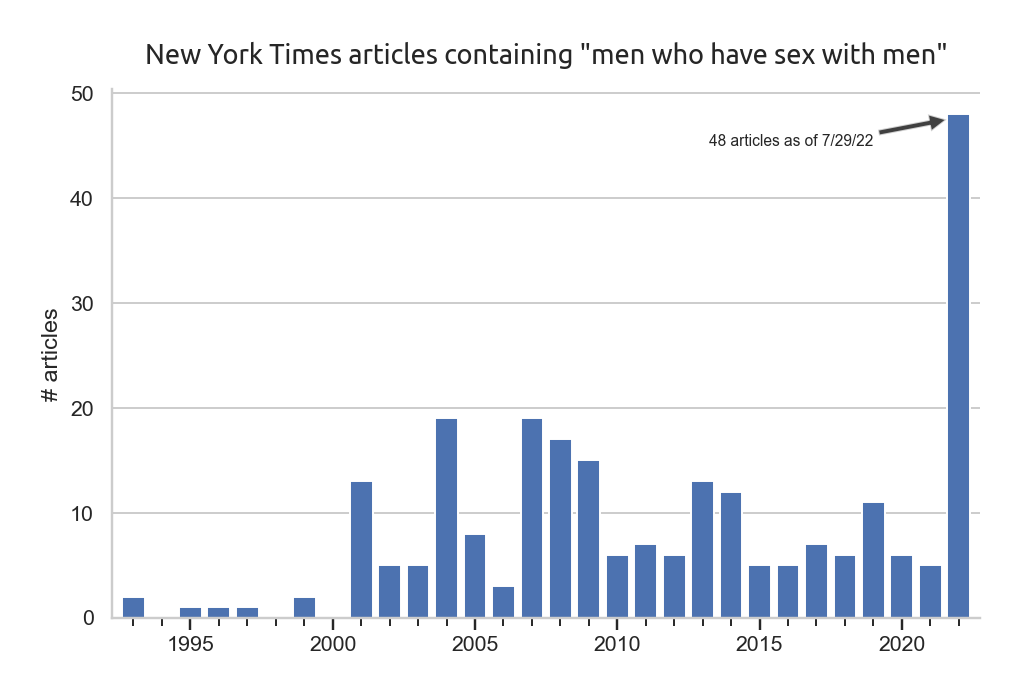
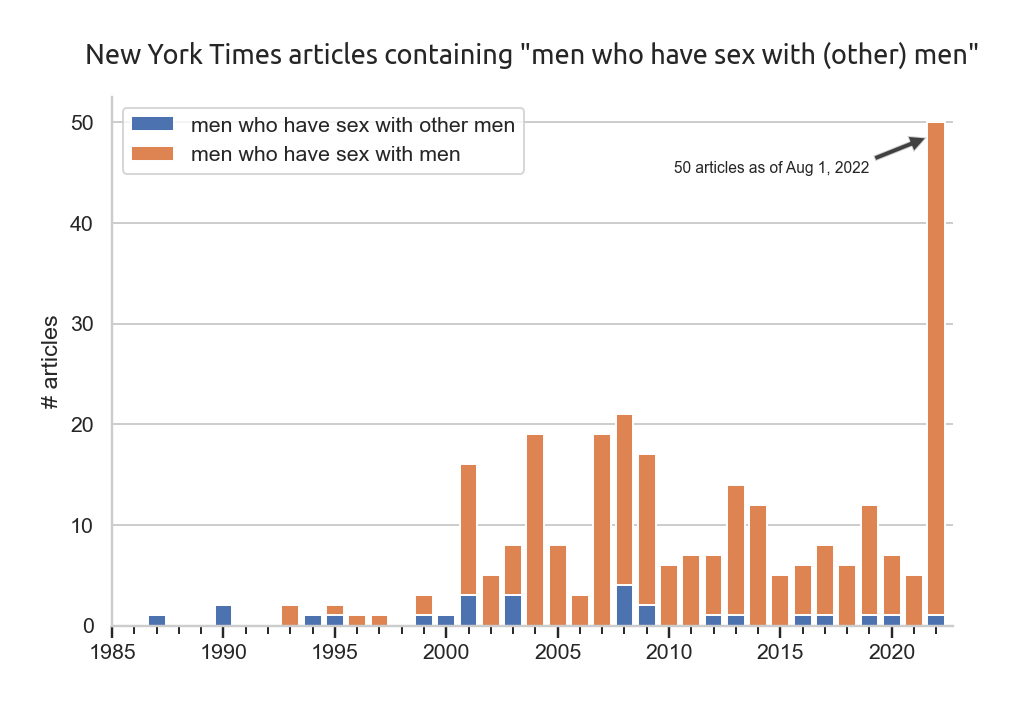
Final draft of MSM post

diff --git a/_posts/2022-07-29-msm-antedating.md b/_posts/2022-07-29-msm-antedating.md
@@ -4,54 +4,110 @@ title: A brief history of "men who have sex with men"
 tags: [linguistics]
 ---
 
-<!--
-
-Todo:
-- thumbnail img
-- hot take tweet img
-- test ngrams on mobile
-- grab images from survey to include w/ tweet
-
-Maybe:
-- tighten up middle-ish. maybe cut foucault.
-- mention early on what the term means / why it's useful
-
--->
-
 With monkeypox in the news, some people are encountering the phrase "men who have sex with men" ("MSM" for short) for the first time. I've even seen some hot takes positing that it's a new invention being pushed by woke moralists.
 
-![Screenshots of some tweets describing "men who have sex with men" as a new or unfamiliar phrase](/assets/msm/tweets.png)
+<div>
+    <img src="/assets/msm/tweets.png" height="600px"
+     style="display:block; margin: 1em auto;"
+     alt="Screenshots of some tweets describing 'men who have sex with men' as a new or unfamiliar phrase"
+     />
+</div>
 
-First off, there's nothing sinister or euphemistic about this plain English phrase which means more or less what it says on the tin. Why not just say "gay" (or "gay or bisexual")? Because the Venn diagram of these sets has non-empty "lobes" -- there exist celibate gay men, and, most importantly, there exist men who have sex with men but who do not identify as gay or bisexual. The potential reasons for this are many, but consider for example a man who...
+First off, it seems odd to read this plain English phrase which means more or less what it says on the tin as something sinister or euphemistic. Why not just say "gay" (or "gay or bisexual")? Because the Venn diagram of these sets has non-empty "lobes" -- there exist celibate gay men, and, most importantly, there exist men who have sex with men but who do not identify as gay or bisexual. The potential reasons for this are many, but consider for example a man who...
 - Is attracted to men, but denies this attraction out of shame
 - Acknowledges his attraction to men, but eschews the label "gay" because he does not identify with the cultural stereotypes of this category (the British physique photographer [John S. Barrington](https://en.wikipedia.org/wiki/John_S._Barrington) is a good example of this)
 - Engages in homosexual acts when confined to an all-male environment (such as a boarding school or prison), but would not do so otherwise (["situational sexual behavior"](https://en.wikipedia.org/wiki/Situational_sexual_behavior))
 
 When it comes to messaging about diseases like monkeypox or AIDS, a person's risk profile is more a function of their *behaviour* than their orientation or tribal identification.
 
-Secondly, it is *definitely* not a new term or concept. Many of the replies to the above tweets correctly point out that "men who have sex with men" has been in use for a long time, though the commentariat is vague or inconsistent about exactly how long ("a few years at least", "decades old", "since at least the 90s", since "around 1994", "it dates to the 1980's"...).
+Secondly, "men who have sex with men" is *definitely* not a new term or concept. Many of the replies to the above tweets correctly point out that "men who have sex with men" has been in use for a long time, though the commentariat is vague or inconsistent about exactly how long ("a few years at least", "decades old", "since at least the 90s", since "around 1994", "it dates to the 1980's"...).
 
-This post is the result of a weekend spent on a mission to pinpoint an answer to this question.
+This post is the result of a weekend spent on a mission to more precisely pinpoint the origin and spread of this concept.
+
+## Prior work
 
 [Wikipedia](https://en.wikipedia.org/wiki/Men_who_have_sex_with_men) claims that *men who have sex with men* has been in use "since 1990 or earlier", and that the initialism *MSM* was coined in 1994 by dentist [Michael Glick](https://en.wikipedia.org/wiki/Michael_Glick), in an article about periodontal issues afflicting HIV patients. These dates are cited to a 2005 article from the American Journal of Public Health, ["The Trouble With “MSM” and “WSW”: Erasure of the Sexual-Minority Person in Public Health Discourse"](https://www.ncbi.nlm.nih.gov/pmc/articles/PMC1449332/). 
 
-Another source, the 2011 paper ["But Do Not Identify As Gay: A Proleptic Genealogy of the MSM Category"](https://anthrosource.onlinelibrary.wiley.com/doi/10.1111/j.1548-1360.2011.01100.x) gives two 1988 quotations as the first published references to the concept ("to my knowledge"), an antedating which has since been repeated elsewhere (e.g. [here](https://www.sciencedirect.com/science/article/abs/pii/S0277953620301660), and [here](https://www.cbrc.net/rose-any-other-name)). But neither paper devotes much attention to the matter of antedating, so it seems plausible that we can push these dates back with a little digging.
+Another source, a 2011 paper by Tom Boellstorff, ["But Do Not Identify As Gay: A Proleptic Genealogy of the MSM Category"](https://anthrosource.onlinelibrary.wiley.com/doi/10.1111/j.1548-1360.2011.01100.x), gives two 1988 quotations as the first published references to the concept ("to my knowledge"), an antedating which has since been repeated in a number of places (e.g. [here](https://www.sciencedirect.com/science/article/abs/pii/S0277953620301660), and [here](https://www.cbrc.net/rose-any-other-name)).
 
-## When was "men who have sex with men" coined?
+<!-- But neither paper devotes much attention to the matter of antedating, so it seems plausible that we can push these dates back with a little digging. -->
+
+The Oxford English Dictionary has an entry for "men who have sex with men", with its earliest quotation also from 1988. Though, whereas the quotes given by Boellstorff are from academic papers, the OED's 1988 quote is from a newspaper, the [*New York Amsterdam News*](https://en.wikipedia.org/wiki/New_York_Amsterdam_News):
+
+> The NYC Department of Health is requesting..applicants..who have the ability to communicate with the following populations: **men who have sex with men** [etc.]
+
+The OED also has an entry for "MSM", with two citations that predate the supposed 1994 coinage claimed by the paper cited by Wikipedia. The earliest is from 1990: 
+
+> The Gay Men's Health Crisis (GMHC) convened focus groups with black men who have sex with men (**MSM**).
+
+## *men who have sex with men* before 1988?
 
 Google Books turns up many instances of the 6-gram "men who have sex with men" well before 1988. Here's an example from March 3, 1978, from Jim Fitzgerald, a columnist for the Detroit Free Press ([available through the Internet Archive library](https://archive.org/details/ifitfitzbestofji0000fitz/page/95/mode/1up)):
 
-> Anita Bryant recently said if government protects the civil rights of men who have sex with men, and women who have sex with women, it should do the same for "people who have sex with dead people and St. Bernards."
+> Anita Bryant recently said if government protects the civil rights of **men who have sex with men**, and women who have sex with women, it should do the same for "people who have sex with dead people and St. Bernards."
 
-But we're not interested in the first time these 6 words were put together with a meaning that's the sum of their parts. We want to know the origin of "men who have sex with men" as an *idiomatic* expression. i.e. as a term in medicine and social sciences, explicitly intended to be inclusive of men who (for any of a variety of reasons) practice same-sex intercourse without identifying as same-sex attracted. In the above excerpt, Fitzgerald is clearly not using the term in this way (in fact, the full Anita Bryant quote he references explicitly mentions homosexuality: "Making homosexuality a civil rights issue would mean you have to give minority-group status to prostitutes, to people who have sex with dead people or St. Bernards.")
+But we're not just interested in when these 6 words were put together in a particular order. We're interested in when it was first used with a certain meaning -- as a category that deliberately includes men who engage in homosexual behaviour but don't identify as homosexual, bisexual, etc. In the quote above, Fitzgerald seems to be using the phrase merely as a synonym for "gay men" (perhaps to create a natural rhetorical parallel with "people who have sex with dead people and St. Bernards") -- in fact, the full Anita Bryant quote he references is: "Making homosexuality a civil rights issue would mean you have to give minority-group status to prostitutes, to people who have sex with dead people or St. Bernards."
 
-Notably, the term appears in the 1986 English translation of the third volume of Foucault's landmark [*The History of Sexuality*](https://en.wikipedia.org/wiki/The_History_of_Sexuality) ("les hommes qui ont rapport avec des hommes", in the original French), but only once, so Foucault was probably not intending it as a term of art.
+The earliest uses of the phrase in the modern public health sense that I was able to find on Google Books were in a couple US government documents from 1987, a year before our earliest known citations. Here's one example:
 
-The earliest instance of the MSM framing I was able to find comes from a 1984-1985 longitudinal survey commissioned by the San Francisco AIDS Foundation. To be qualified for the survey, "a respondent had to report that he at least occasionally had sex with other men *or* to identify himself as gay or bisexual." Here's an excerpt from the script used by the interviewers, who reached out to a random sample of households over the phone:
+*Evaluation of California's AIDS Community Education Program*, a government publication from 1987 ([Google Books preview](https://www.google.ca/books/edition/Evaluation_of_California_s_AIDS_Communit/Q2iupm_22-UC?hl=en&gbpv=1&bsq=%22men+who+have+sex+with+men%22&dq=%22men+who+have+sex+with+men%22&printsec=frontcover)):
 
-> For the rest of this survey, we are interested in speaking with one group of people who are at highest risk for AIDS: men who have sex with other men, or who identify themselves as gay or bisexual. Would you include yourself in one of these groups?
+> **Men who have sex with men** but are not gay-identified had the lowest levels of AIDS-related knowledge and were the least likely to modify the behaviors. These men, who typically relate to the exclusively sexual subculture, may keep their homosexual contacts hidden from other parts of their lives.
+
+However, newspapers.com turns up a handful of earlier occurrences stretching all the way back to an article from January 1983(!) in the *Springfield News-Sun*, early in the AIDS crisis (the article describes AIDS as "a mysterious lethal disease that attacks the body's own immune system").
+
+<!--
+https://www.newspapers.com/image/825844327/?terms=%22men%20who%20have%20sex%20with%20men%22&match=1
+-->
+
+The article, "Blood centers screen area donors", deals very directly with the problems motivating the MSM/gay distinction. It reports on some local blood centers which have begun "asking donors whether or not they are homosexuals before taking their blood" as a precaution, given the existence of some evidence linking AIDS to gay men. The article's author interviewed a gay activist, Howard Getz, who objected to the formulation of the screening question:
+
+> Getz called the question inaccurate because AIDS had not been diagnosed among any lesbians. Also, **men who have sex with men** but do not consider themselves homosexual would be permitted to give blood and could taint the supply as easily as an admitted homosexual, he said.
+
+([Not "admitted homosexual".](https://colinmorris.github.io/blog/ironic-not))
+
+Getz's position would soon be vindicated. In 1985 we see an AP story, "Men who have had sex with men urged not to give blood", and a 1987 article in the LA Daily News quotes "Are you aware that men who have sex with other men run a high risk of contracting acquired immune deficiency syndrome?" as one of the standard questions nurses are asking prospective blood donors.
+
+<!--
+https://www.newspapers.com/image/248668324/?terms=%22men%20who%20have%20sex%20with%20men%22&match=1
+https://www.newspapers.com/image/517665518/?terms=%22men%20who%20have%20sex%20with%20men%22&match=1
+-->
+
+Some other early examples from newspapers...
+
+From a 1984 letter to the editor in *The Sydney Morning Herald*:
+
+> It is now recognised that a highly significant danger in spreading AIDS outside the gay community is through heterosexually identified **men who have sex with men** as well, sometimes in parks/toilets, often in steam-baths.
+
+<!--
+https://www.newspapers.com/image/122618571/?terms=%22men%20who%20have%20sex%20with%20men%22&match=1
+-->
+
+"Health officials ignore AIDS threat in prisons", a 1985 article in *The San Bernardino County Sun*:
+
+> There's little question that jails and prisons are potential breeding grounds for AIDS. A large number of the 700,000 Americans behind bars are drug users and **men who have sex with other men**.
+> [...]
+> "Sexual activity inside prisons is the by-product of a number of factors that bear no relationship to inmates' sexual orientation prior to arrest," New York City Police Commissioner Benjamin Ward wrote the New York Times recently.
+
+<!--
+https://www.newspapers.com/image/120324363/?terms=%22men%20who%20have%20sex%20with%20men%22&match=1
+-->
+
+## The 1984-85 San Francisco AIDS survey
+
+In the early years of the AIDS epidemic, the [San Francisco AIDS Foundation](https://en.wikipedia.org/wiki/San_Francisco_AIDS_Foundation) commissioned a telephone survey, with a first wave of interviews in August 1984, and follow-ups in April 1985. The foundation sought information about men's sexual practices, their awareness of AIDS, and their consumption and acceptance of public health messaging about AIDS prevention. Though a year later than the earliest quote in the above section, this is a great early example of the MSM paradigm being successfully used to a practical end. 
+
+[Headlines about the study](https://www.cdc.gov/mmwr/preview/mmwrhtml/00000620.htm) characterized it as a survey of "gay and bisexual men", but [the full report](https://calisphere.org/item/883f5e69-f4e4-4e0e-ad49-1e06a313f55a/)'s methodology section is more nuanced:
+
+> To be qualified, a respondent had to report that he at least occasionally had sex with other men, <u>or</u> to identify himself as gay or bisexual.
+
+Here's an excerpt from the script used by the interviewers, who phoned up a random sample of SF households:
+
+> For the rest of this survey, we are interested in speaking with one group of people who are at highest risk for AIDS: **men who have sex with other men**, or who identify themselves as gay or bisexual. Would you include yourself in one of these groups?
 > 
 > (IF HESITANT, CONTINUE:) We are also interested in speaking with men who may only occasionally have sex with other men. If you fall into one of these categories, we would very much appreciate it if you could complete the survey. As I said in the beginning, in no way will your name ever be associated with this survey and your answers will help the AIDS Foundation in their prevention campaign.
+
+In the 1984 survey, 81% of respondents described themselves as gay, 6% as bisexual, and 13% as "other" -- which is to say, enlarging their criteria to "men who have sex with other men" had a very real benefit in this case.
 
 Incidentally, the [whole report](https://calisphere.org/item/883f5e69-f4e4-4e0e-ad49-1e06a313f55a/) is a fascinating read, peppered with surprising and occasionally moving details. For example:
 
@@ -61,39 +117,29 @@ Of the 19 men who conducted the first survey, all but one were gay or bisexual, 
 
 > We also devised a system to keep track of respondents who initially refused to indicate whether they were qualified or not but whom the interviewer sensed probably were qualified. As the survey period progressed, we approached these refusals again with successful results. We completed interviews with 25 of the 62 refusals contacted, or 40%.
 
-In the 1984 survey, 81% of respondents described themselves as gay, 6% as bisexual, and 13% as "other" - which is to say, enlarging their criteria to "men who have sex with other men" had a practical benefit in this case.
+## Meta commentary
 
-The results of the report, including the "men who have sex with other men" framing, were also published elsewhere, such as [a 1985 issue of the CDC's *Morbidity and Mortality Weekly Report*](https://www.cdc.gov/mmwr/preview/mmwrhtml/00000620.htm).
-
-The earliest occurrences of the simpler "men who have sex with men" formulation I could find date to 1987. Some examples follow.
-
-*Evaluation of California's AIDS Community Education Program*, a government publication from 1987 ([Google Books preview](https://www.google.ca/books/edition/Evaluation_of_California_s_AIDS_Communit/Q2iupm_22-UC?hl=en&gbpv=1&bsq=%22men+who+have+sex+with+men%22&dq=%22men+who+have+sex+with+men%22&printsec=frontcover)):
-
-> Men who have sex with men but are not gay-identified had the lowest levels of AIDS-related knowledge and were the least likely to modify the behaviors. These men, who typically relate to the exclusively sexual subculture, may keep their homosexual contacts hidden from other parts of their lives.
-
-Another 1987 government report, this by the Department of Social & Health Services of Washington State ([preview](https://www.google.ca/books/edition/Report/naYeAQAAIAAJ?hl=en&gbpv=1&bsq=%22men+who+have+sex+with+men%22&dq=%22men+who+have+sex+with+men%22&printsec=frontcover))
-
-> At risk populations are often difficult to reach even through targeted efforts. Not all men who have sex with men identify with gay culture nor frequent gay institutions. The stigma associated with homosexuality causes men who have sex with men to deny to themselves that they are gay or bisexual.
-
-And here are a few examples from 1988 which give some explicit commentary on the term...
+The first instances I was able to find which commented directly on the phrase "men who have sex with men" itself were from 1988, and it's worth quoting a couple of them...
 
 From [some 1988 US Senate hearings related to AIDS](https://www.google.ca/books/edition/Coordinating_the_Government_s_Response_t/vvCJTFNDmT0C?hl=en&gbpv=1&dq=%22men+who+have+sex+with+men%22&pg=PA381&printsec=frontcover):
 
-> Our [The Latino Aids Project's] target groups are men who have sex with men, Latino(a) intravenous drug users, and Latino(a) youth who are at risk for HIV infection[...] The reason I have used the term "men who have sex with men" is because in our community we have men who participate in sexual activities with other men, however, they don't identify as being gay, homosexual or bisexual.
+> Our [The Latino Aids Project's] target groups are **men who have sex with men**, Latino(a) intravenous drug users, and Latino(a) youth who are at risk for HIV infection[...] The reason I have used the term **"men who have sex with men"** is because in our community we have men who participate in sexual activities with other men, however, they don't identify as being gay, homosexual or bisexual.
 
-This excerpt from a 1988 research article, ["Integrating Safer-Sex Counseling into Social Work Practice"](https://journals.sagepub.com/doi/abs/10.1177/104438948806900602), by Michael Shernoff powerfully drives home the practical value of this framing:
+This anecdote from a 1988 research article, ["Integrating Safer-Sex Counseling into Social Work Practice"](https://journals.sagepub.com/doi/abs/10.1177/104438948806900602), by Michael Shernoff powerfully drives home the practical value of this framing:
 
 > In attempting to assess whether a client is at risk for AIDS, clinical social workers must ascertain both what the client’s current sexual practices are as well as what they were in the past. Simply asking ”Are you gay?” is not sufficient. Health care professionals cannot assume that a client who is not openly gay has not engaged in sex with other men. For example, a married man with numerous symptoms of AIDS-related complex (ARC) who had never been transfused, who reported no history of shared needle use or other risk factors for exposure to HIV, and who stated he was not gay baffled his physician. However, when the man was questioned by a social worker as to whether he had ever had sex with other men, the client stated that he had a long history of sexual activity with men.
 > 
-> Thus many men who have sex with men do not label themselves as homosexual and certainly do not identify with the gay community. Questions regarding sexual practices must be asked in an accepting, nonjudgmental, and gentle way that does not incorporate the use of labels. For instance, the practitioner may ask: ”As an adult have you ever had any sexual contact with another man?” If the answer is ”Yes,” then asking ”When was the last time?” can provide useful and pertinent information about the client’s possible exposure to HIV.
+> Thus many **men who have sex with men** do not label themselves as homosexual and certainly do not identify with the gay community. Questions regarding sexual practices must be asked in an accepting, nonjudgmental, and gentle way that does not incorporate the use of labels. For instance, the practitioner may ask: ”As an adult have you ever had any sexual contact with another man?” If the answer is ”Yes,” then asking ”When was the last time?” can provide useful and pertinent information about the client’s possible exposure to HIV.
 
-### What about *MSM*?
+## *MSM* initialism before 1990?
 
-The source cited by Wikipedia claims that the initialism "MSM" wasn't coined until 1994, but this too can be pushed back. There are several pre-1994 examples of "MSM" at least being used as an abbreviation in tables or plots ([example](https://www.ncbi.nlm.nih.gov/pmc/articles/PMC1403325/?page=4)), and I was able to find one early document, [a 1989 Senate report](https://www.google.ca/books/edition/The_American_Health_Care_Crisis/lSMjFtDuXkwC?hl=en&gbpv=1&dq=%22men+who+have+sex+with%22+%22MSM%22&pg=PA39&printsec=frontcover), which uses it in running text:
+OED's earliest quotation for the initialism "MSM" is from 1990 (handily beating the article cited by Wikipedia which claims a 1994 coinage). But it turns out we can also push that figure back slightly:
 
-> AIDS incidence is growing more quickly among intravenous drug users (IVDUs) than it is among men who have sex with men (MSM):
-> - In 1988, for the first time, more *new* AIDS cases were reported among IVDUs than among MSM (43.4% vs. 43.2%).
-> - From June to December of 1988 MSM fell from 57.9% to 51.4% of [...]
+Here's an excerpt from [a 1989 Senate report](https://www.google.ca/books/edition/The_American_Health_Care_Crisis/lSMjFtDuXkwC?hl=en&gbpv=1&dq=%22men+who+have+sex+with%22+%22MSM%22&pg=PA39&printsec=frontcover):
+
+> AIDS incidence is growing more quickly among intravenous drug users (IVDUs) than it is among **men who have sex with men (MSM)**:
+> - In 1988, for the first time, more *new* AIDS cases were reported among IVDUs than among **MSM** (43.4% vs. 43.2%).
+> - From June to December of 1988 **MSM** fell from 57.9% to 51.4% of [...]
 
 ## Trends in usage
 
@@ -102,7 +148,7 @@ As I wrote in my [earlier post about the history of "pro-life" and "pro-choice"]
 <iframe name="ngram_chart" src="https://books.google.com/ngrams/interactive_chart?content=who+have+sex+with+men%2Cmen+who+have+sex+with%2Camong+MSM&year_start=1981&year_end=2019&case_insensitive=on&corpus=26&smoothing=0&direct_url=t4%3B%2Cwho+have+sex+with+men%3B%2Cc0%3B%2Cs0%3B%3Bwho+have+sex+with+men%3B%2Cc0%3B%3BWho+Have+Sex+with+Men%3B%2Cc0%3B%3BWho+Have+Sex+With+Men%3B%2Cc0%3B%3Bwho+have+Sex+with+Men%3B%2Cc0%3B.t4%3B%2Cmen+who+have+sex+with%3B%2Cc0%3B%2Cs0%3B%3Bmen+who+have+sex+with%3B%2Cc0%3B%3BMen+who+have+sex+with%3B%2Cc0%3B%3BMen+Who+Have+Sex+with%3B%2Cc0%3B%3BMen+Who+Have+Sex+With%3B%2Cc0%3B%3BMen+who+have+Sex+with%3B%2Cc0%3B.t4%3B%2Camong+MSM%3B%2Cc0%3B%2Cs0%3B%3Bamong+MSM%3B%2Cc0%3B%3BAmong+MSM%3B%2Cc0" width=900 height=330 marginwidth=0 marginheight=0 hspace=0 vspace=0 frameborder=0 scrolling=no></iframe>
 
 
-This roughly indicates that "men who have sex with men" began to see use in the mid-to-late 80s, increasing sharply in frequency through the early 90s, and more gradually since then. Use of the initialism "MSM" in print has trailed this trend by about 10 years.
+This roughly indicates that "men who have sex with men" began to see use in the mid-to-late 80s, increasing sharply in frequency through the early 90s, and more gradually since then. Popular use of the initialism "MSM" in print has trailed this trend by about 10 years.
 
 (Technical notes: the ngram viewer maxes out at 5-grams, which is why I used a "shingling" approach of plotting "men who have sex with" and "who have sex with men". The fact that their lines track each other so closely (I set smoothing to 0 for this plot) suggests they both mostly occur as part of the same "men who have sex with men" 6-gram. The occassional use of the phrase "men who have sex with *other* men" may explain why the "men who have sex with" shingle consistently floats slightly above the other.)
 
@@ -112,8 +158,8 @@ To get a rough sense of the absolute numbers involved, Google Scholar turns up 1
 
 At this point, a skeptic might concede that *MSM* has been widely used for a long time in technical publications by public health experts, but how come all of a sudden the terminology is being used in the mainstream media (the other MSM)?
 
-Well, here's a chart showing the frequency of "men who have sex with men" in the New York Times, from its first occurrence in January 1993:
+Well, here's a chart showing the annual number of articles using this phrase in the New York Times. "men who have sex with other men" first appears in a March 1987 article (headline: ["4 New York Bathhouses Still Operate Under City's Program of Inspections"](https://www.nytimes.com/1987/05/03/nyregion/4-new-york-bathhouses-still-operate-under-city-s-program-of-inspections.html)), with the shorter form debuting in 1993:
 
-![Number of NYT articles containing "men who have sex with men" per year from 1993-2022](/assets/msm/nyt.png)
+![Number of NYT articles containing "men who have sex with (other) men" per year from 1993-2022](/assets/msm/nyt.png)
 
-It's been there all along! Sure, 2022 is a record high, but that's pretty easily explained by the fact that a virus outbreak disproportionately affecting MSM is a major news story! (45 of the 48 results for this year also include the term "monkeypox".)
+It's been there all along! Sure, 2022 is a record high, but that's pretty easily explained by the fact that a virus outbreak disproportionately affecting MSM is a major news story! (47 of the 50 results for this year also include the term "monkeypox".)
